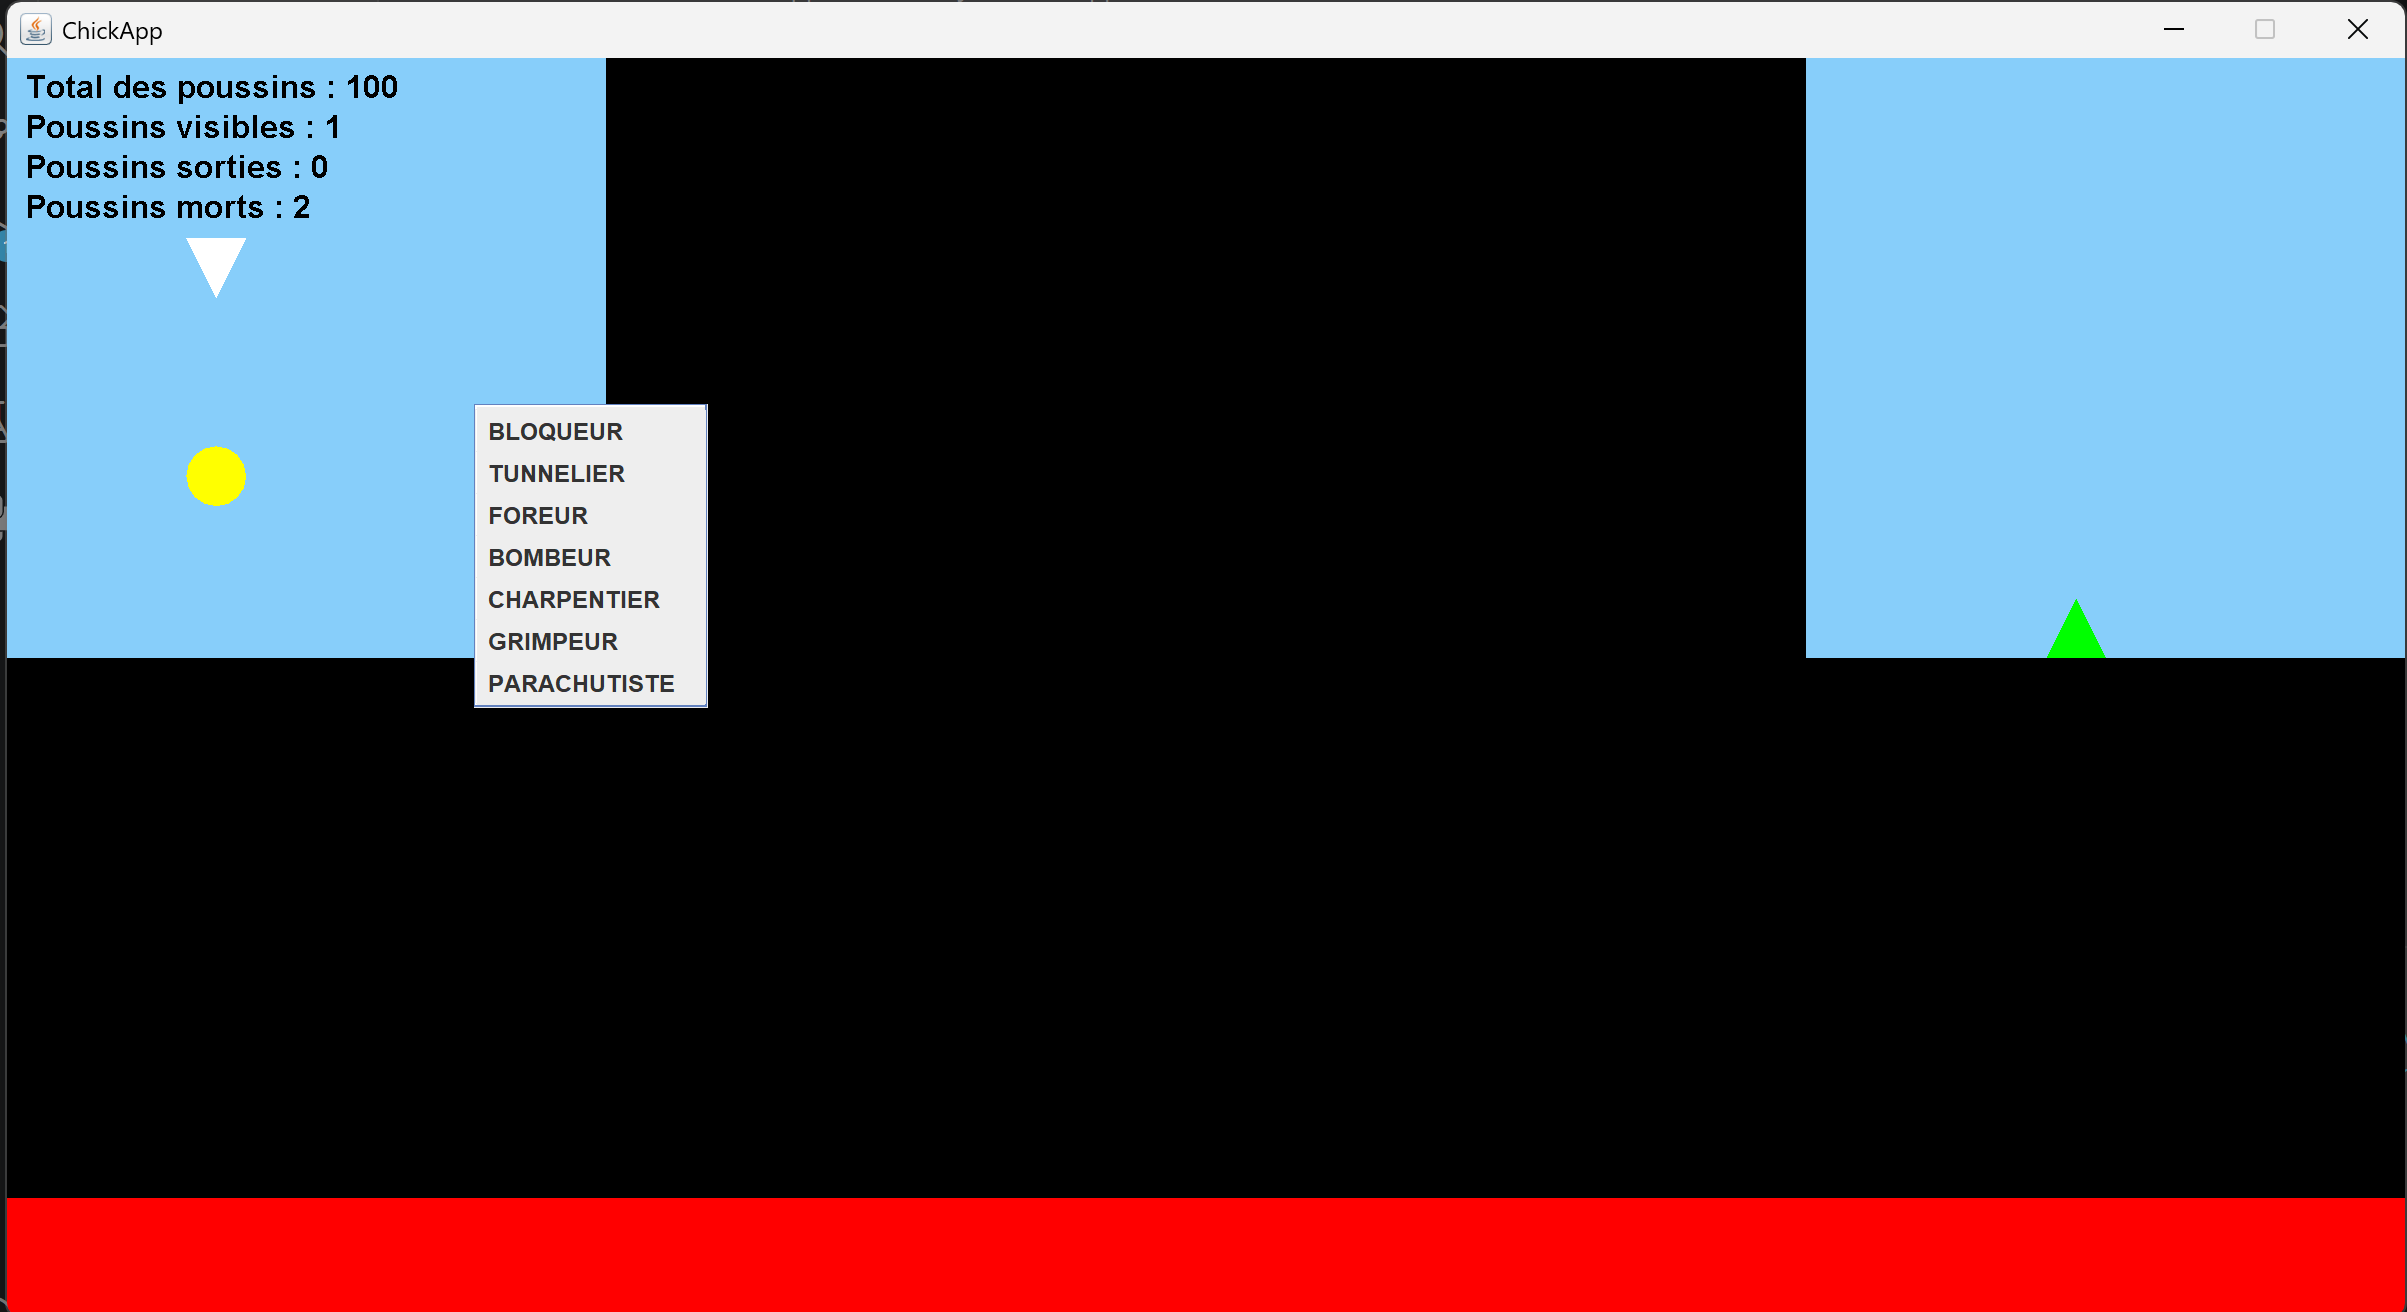
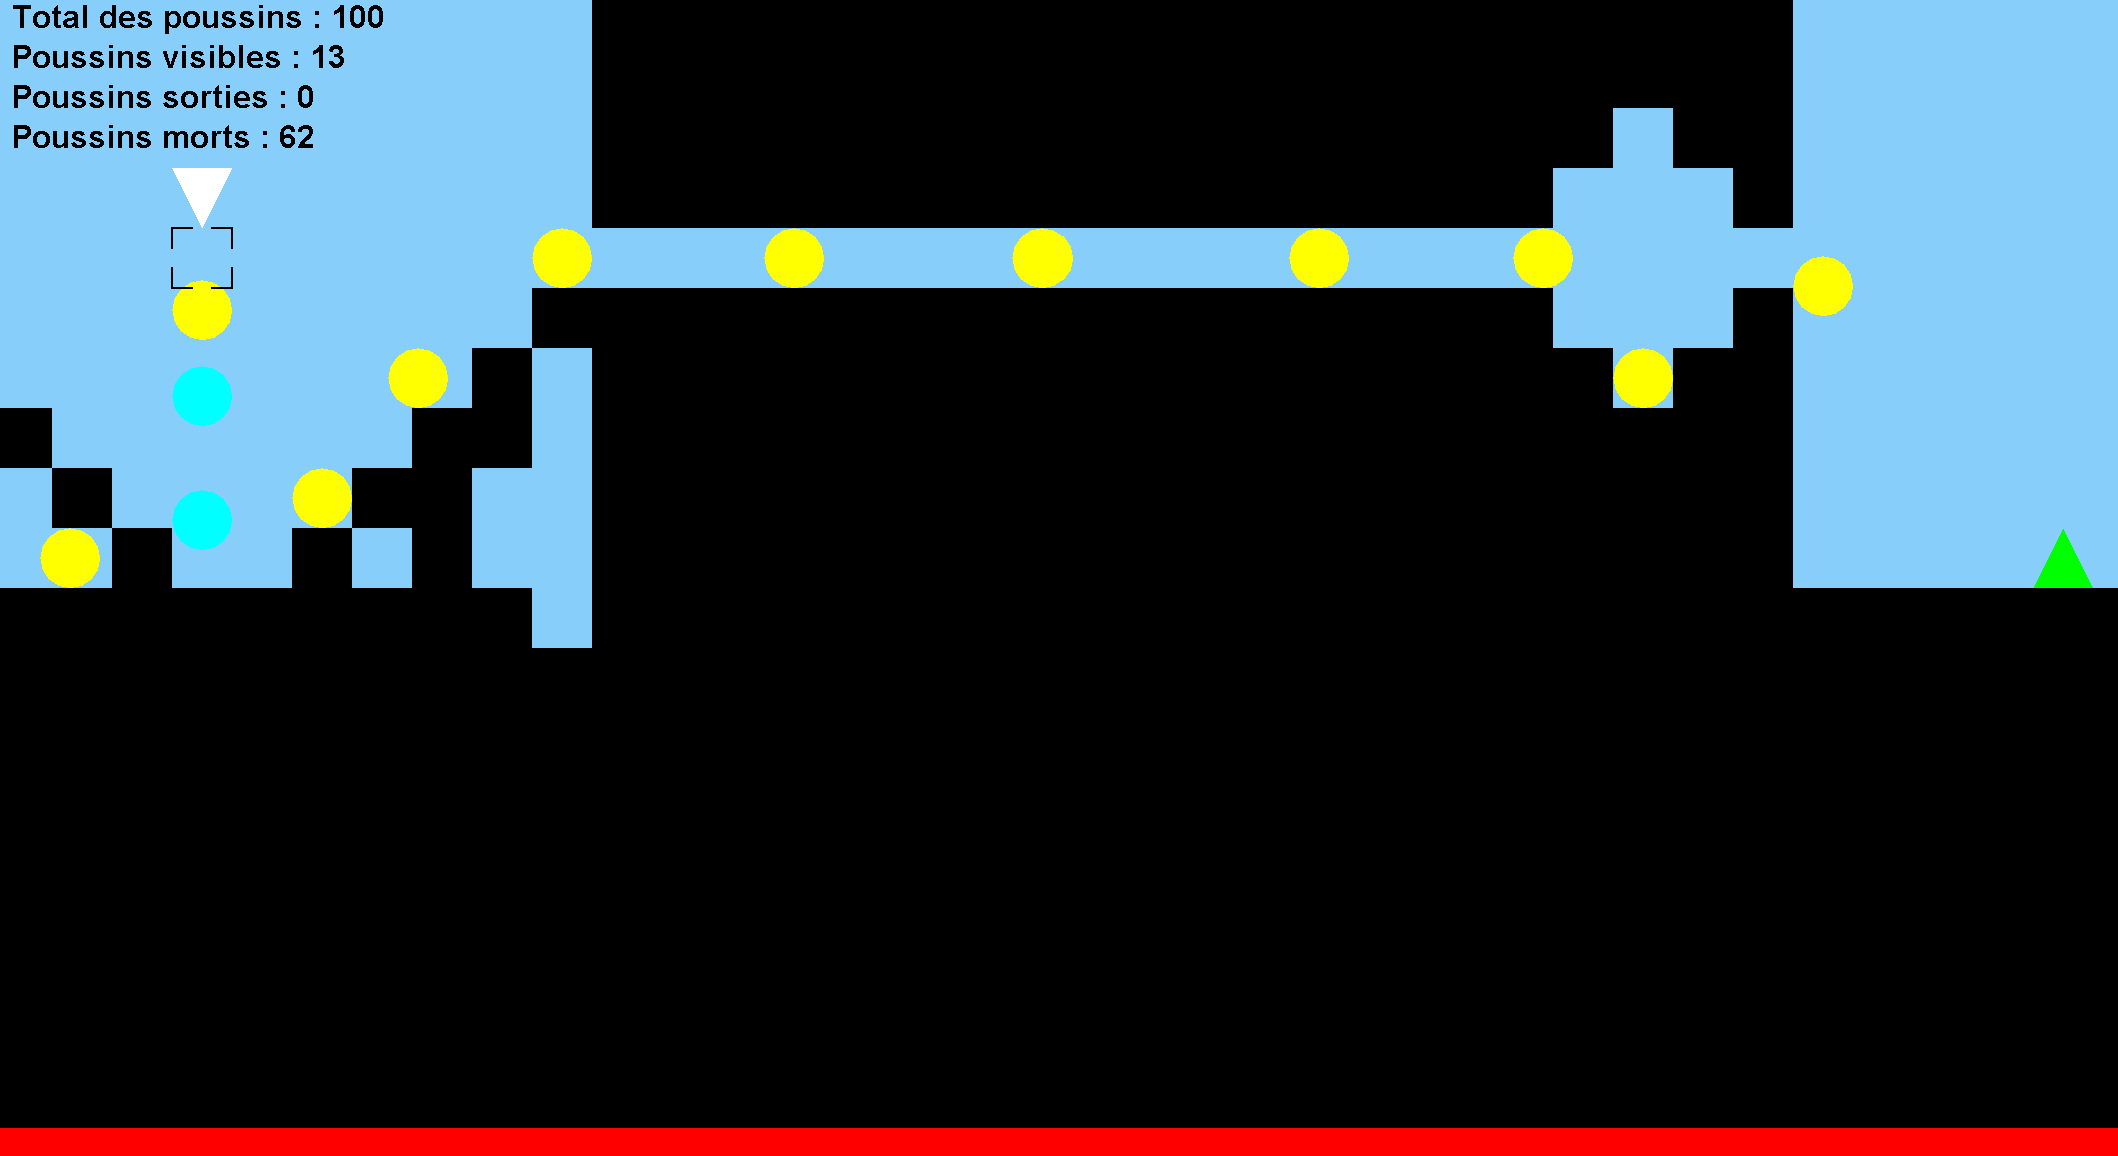
Refresh gameplay screenshots and add Mario preview
This commit updates the gameplay screenshots for the Java games and adds a new gameplay capture for the OCaml Super-Mario-Bros project. It also adds a README preview image and documents the screenshots folder in the project structure.

Changed region(s): [[0.0, 0.0, 1.0, 1.0], [0.0, 0.218, 0.3116, 0.5606], [0.0623, 0.2491, 0.1246, 0.4048]]

diff --git a/OCAML/Super-Mario-Bros/README.md b/OCAML/Super-Mario-Bros/README.md
@@ -6,6 +6,8 @@ Le personnage traverse un niveau généré aléatoirement (sol troué, obstacles
 
 ## Aperçu
 
+<img src="screenshots/gameplay.png" alt="Gameplay" width="800">
+
 - Personnage et décor dessinés en art ASCII (`{*}` / `/O\` / `/ \` pour le héros)
 - Défilement horizontal avec caméra qui suit le joueur
 - Niveau **différent à chaque partie** (trous, obstacles et pièces générés aléatoirement)
@@ -64,6 +66,7 @@ dune exec ./mario.exe
 ├── keyboard_stubs.c    # stub C pour la lecture clavier (API Windows)
 ├── dune                # configuration de build
 ├── dune-project        # déclaration du projet dune
+├── screenshots/        # captures d'écran
 └── README.md
 ```
 
